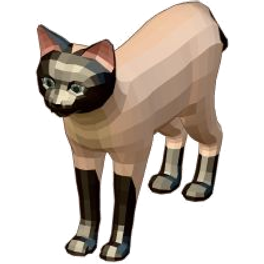
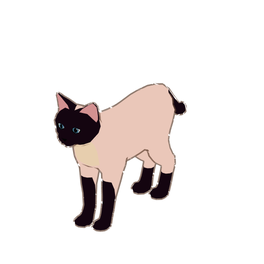
@ fix: give the cat the same outline as the props, and reshoot the swatches
The outline shader pushed vertices out by one unit measured in object
space. That unit means different things per model: a prop authored around
one unit moves its whole width, while the cat FBX (centimetre source) moves
under a percent of its body, so the difference the shader normalises shrank
to noise - the cat outline came out soft and slightly detached.

Take the offset into view space via normalMatrix instead. Model units
cancel, so cat and workstation get the same weight and crispness from the
same constant.

The style swatches were stills from /cat-shot, which still had lights and
its own outline values, so the swatch cat no longer matched the one in the
office. Point that page at the world constants and the same unlit path,
then reshoot all fifteen. Its camera is orthographic, where w is always 1
and the thickness constant reads far thinner than under perspective, so the
page scales it (?ot=, default 3) to land at the same apparent weight.

@

diff --git a/app/cat-shot/page.tsx b/app/cat-shot/page.tsx
@@ -3,7 +3,7 @@
 import { useEffect, useRef } from "react";
 import * as THREE from "three";
 import { FBXLoader } from "three/addons/loaders/FBXLoader.js";
-import { OutlineEffect } from "three/addons/effects/OutlineEffect.js";
+import { SketchOutlineEffect } from "../sketch-outline-effect";
 import { catStyleModelUrl } from "../cat-styles";
 import { fattenCat } from "../cat-body";
 
@@ -12,9 +12,12 @@ import { fattenCat } from "../cat-body";
  * 헤드리스 크로미움으로 15장을 찍어 cat-styles-review-*.html 에 박아 넣는 용도다.
  * 캔버스를 창 크기에 정확히 맞춰야 스크린샷 = 캔버스가 된다.
  */
-const ILLUSTRATION_OUTLINE_COLOR = new THREE.Color(0x6f5040);
-const OUTLINE_THICKNESS = 0.0045;
-const OUTLINE_ALPHA = 0.85;
+/* 게임 월드(app/agent-world-3d.tsx)와 같은 값을 쓴다.
+   여기서 찍은 그림이 그대로 털색 목록 썸네일이 되므로, 값이 다르면
+   목록의 고양이와 사무실의 고양이가 다른 그림처럼 보인다. */
+const ILLUSTRATION_OUTLINE_COLOR = new THREE.Color(0x735b4f);
+const OUTLINE_THICKNESS = 0.0038;
+const OUTLINE_ALPHA = 0.72;
 const CAT_HEIGHT = 0.86;
 const PORTRAIT_YAW = -0.62;
 
@@ -43,20 +46,20 @@ export default function CatShotPage() {
     renderer.setClearAlpha(0);
     host.appendChild(renderer.domElement);
 
-    const outlineEffect = new OutlineEffect(renderer, {
-      defaultThickness: OUTLINE_THICKNESS,
+    /* 이 페이지는 직교 카메라라 gl_Position.w 가 늘 1 이다.
+       월드(원근)에서는 w 가 깊이라 같은 상수라도 화면에서 더 두껍게 나온다.
+       그래서 같은 굵기로 보이게 하려면 여기서만 배수를 곱해야 한다.
+       ?ot= 로 조절할 수 있게 열어 둔다. */
+    const outlineScale = Number(params.get("ot") ?? "3") || 3;
+    const outlineEffect = new SketchOutlineEffect(renderer, {
+      defaultThickness: OUTLINE_THICKNESS * outlineScale,
       defaultColor: ILLUSTRATION_OUTLINE_COLOR.toArray(),
       defaultAlpha: OUTLINE_ALPHA,
     });
 
+    // 월드가 unlit 이라 여기도 조명을 두지 않는다. 조명을 두면 목록 썸네일만
+    // 음영이 생겨 사무실에 서 있는 고양이와 다른 색으로 보인다.
     const scene = new THREE.Scene();
-    scene.add(new THREE.HemisphereLight(0xfff6dd, 0x8d7a68, 1.7));
-    const keyLight = new THREE.DirectionalLight(0xfff2d1, 2.1);
-    keyLight.position.set(-4, 10, 7);
-    scene.add(keyLight);
-    const fillLight = new THREE.DirectionalLight(0x9fcbe0, 0.65);
-    fillLight.position.set(8, 5, -4);
-    scene.add(fillLight);
 
     const camera = new THREE.OrthographicCamera(-1, 1, 1, -1, 0.1, 40);
     const cameraOffset = new THREE.Vector3(0, 2.7, 6);
@@ -158,12 +161,29 @@ export default function CatShotPage() {
             if (textured.map) textured.map.colorSpace = THREE.SRGBColorSpace;
           }
           material.userData.outlineParameters = {
-            thickness: OUTLINE_THICKNESS,
+            thickness: OUTLINE_THICKNESS * outlineScale,
             color: ILLUSTRATION_OUTLINE_COLOR.toArray(),
             alpha: OUTLINE_ALPHA,
+            visible: true,
           };
           material.needsUpdate = true;
         }
+        // 조명 없이 텍스처 색 그대로 — 월드와 같은 unlit.
+        const unlit = materials.map((material) => {
+          const source = material as THREE.Material & {
+            color?: THREE.Color;
+            map?: THREE.Texture | null;
+          };
+          const basic = new THREE.MeshBasicMaterial({
+            color: source.color?.clone() ?? new THREE.Color(0xffffff),
+            map: source.map ?? paletteTexture,
+            side: THREE.DoubleSide,
+            toneMapped: material.toneMapped,
+          });
+          basic.userData.outlineParameters = material.userData.outlineParameters;
+          return basic;
+        });
+        object.material = Array.isArray(object.material) ? unlit : unlit[0];
       });
       model.updateMatrixWorld(true);
       const sourceSize = new THREE.Box3()

diff --git a/app/sketch-outline-effect.ts b/app/sketch-outline-effect.ts
@@ -25,8 +25,17 @@ const outlineVertexShader = `
 
   uniform float outlineThickness;
 
-  vec4 calculateOutline(vec4 pos, vec3 normal, vec4 skinned) {
-    vec4 pos2 = projectionMatrix * modelViewMatrix * vec4(skinned.xyz + normal, 1.0);
+  /* 바깥으로 밀 방향을 '뷰 공간'에서 구한다.
+     예전에는 오브젝트 공간에서 법선을 1단위 더했는데, 그 1단위가 갖는 의미가
+     모델마다 달랐다 — 소품(원본 ~1단위)은 몸집만큼 밀려 방향이 또렷했지만,
+     고양이 FBX(cm 단위 원본)는 몸집의 몇 %도 안 돼 차이가 0에 가까웠고
+     normalize 가 그 오차를 증폭해 외곽선이 흐려지고 살짝 떠 보였다.
+     normalMatrix 로 법선을 뷰 공간에 옮기면 원본 단위가 상쇄돼
+     고양이든 자리든 같은 굵기·같은 선명도로 나온다. */
+  vec4 calculateOutline(vec4 pos, vec3 objectNormalIn, vec3 objectPos) {
+    vec4 viewPos = modelViewMatrix * vec4(objectPos, 1.0);
+    vec3 viewNormal = normalize(normalMatrix * objectNormalIn);
+    vec4 pos2 = projectionMatrix * vec4(viewPos.xyz + viewNormal * 0.02, 1.0);
     vec4 norm = normalize(pos - pos2);
     return pos + norm * outlineThickness * pos.w;
   }
@@ -44,7 +53,7 @@ const outlineVertexShader = `
     #include <project_vertex>
 
     vec3 outlineNormal = -objectNormal;
-    gl_Position = calculateOutline(gl_Position, outlineNormal, vec4(transformed, 1.0));
+    gl_Position = calculateOutline(gl_Position, outlineNormal, transformed);
 
     #include <logdepthbuf_vertex>
     #include <clipping_planes_vertex>
